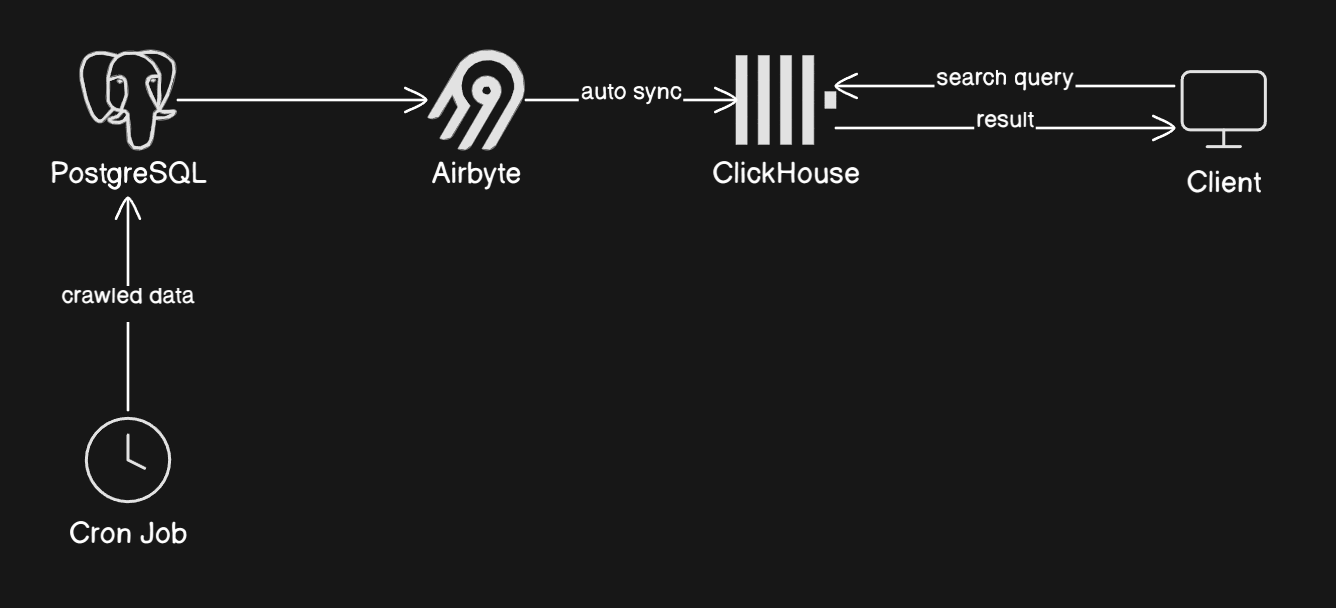
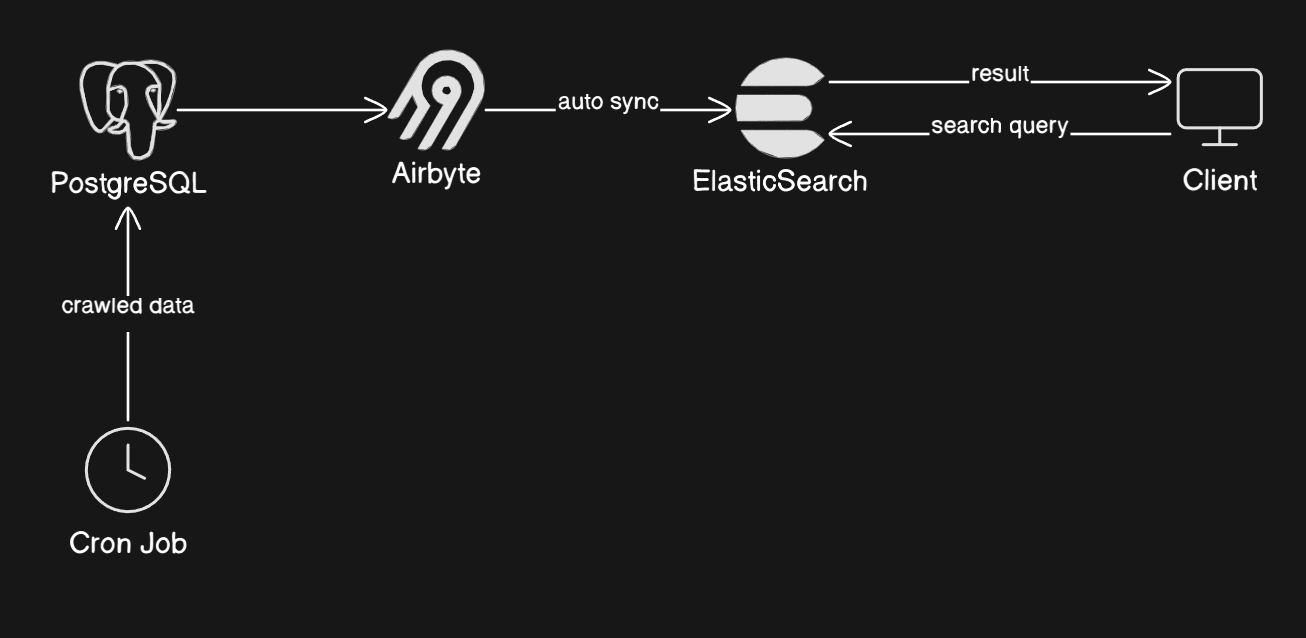
update

Changed region(s): [[0.0306, 0.0625, 0.9801, 0.5], [0.0306, 0.5312, 0.1531, 0.9062]]

diff --git a/index.html b/index.html
@@ -815,7 +815,7 @@
       <div class="decision-grid">
         <div class="decision-card">
           <h5>왜 Temporal?</h5>
-          <p>워크플로우 상태 추적, 자동 재시도, 타임아웃 관리가 선언적으로 가능. gRPC 기반으로 성능 우수.</p>
+          <p>워크플로우 상태 추적, 자동 재시도, 타임아웃 관리가 선언적으로 가능.</p>
         </div>
         <div class="decision-card">
           <h5>왜 Redis?</h5>
@@ -832,10 +832,10 @@
     <div class="project-section">
       <div class="section-sub-label">📊 성과</div>
       <div class="metric-row">
-        <div class="metric-box"><div class="metric-value">30s → 2s</div><div class="metric-desc">응답 대기 시간</div></div>
-        <div class="metric-box"><div class="metric-value">5배</div><div class="metric-desc">동시 처리량 향상</div></div>
-        <div class="metric-box"><div class="metric-value">15% → 0.3%</div><div class="metric-desc">파이프라인 실패율</div></div>
-        <div class="metric-box"><div class="metric-value">0건</div><div class="metric-desc">Heap Corruption</div></div>
+        <div class="metric-box"><div class="metric-value">크래시 → 0</div><div class="metric-desc">100명 동시 테스트 SIGABRT 해결</div></div>
+        <div class="metric-box"><div class="metric-value">즉시 응답</div><div class="metric-desc">Redis Key 반환으로 타임아웃 제거</div></div>
+        <div class="metric-box"><div class="metric-value">N개 병렬</div><div class="metric-desc">Worker replicas 수평 확장</div></div>
+        <div class="metric-box"><div class="metric-value">자동 복구</div><div class="metric-desc">Activity 단위 재시도</div></div>
       </div>
     </div>
 
@@ -857,7 +857,7 @@
         </div>
       </div>
     </div>
-  </div>1
+  </div>
 
   <!-- =============================== -->
   <!-- Project 2: CDC                  -->
@@ -1060,11 +1060,11 @@
       <span class="project-headline">데이터 자동화 · 검색 최적화</span>
     </div>
     <h3>웹툰 검색 파이프라인 구축</h3>
-    <div class="project-subtitle" style="color:var(--green)">수동 크롤링 + PostgreSQL → Airbyte + ClickHouse 전환</div>
+    <div class="project-subtitle" style="color:var(--green)">수동 크롤링 + PostgreSQL → Airbyte + Elasticsearch 전환</div>
     <div class="project-meta">
       <span>기간: 2025</span> | <span>기여도: 100%</span>
       <span class="badge">Airbyte</span>
-      <span class="badge">ClickHouse</span>
+      <span class="badge">Elasticsearch</span>
       <span class="badge">PostgreSQL</span>
     </div>
 
@@ -1073,7 +1073,7 @@
       <div class="context-grid">
         <div class="context-card">
           <h5>수동 적재</h5>
-          <p>1분 주기 크론 크롤링 후 수동으로 DB 적재</p>
+          <p>1분 주기 크론 크롤링 후 데이터 비교 및 DB 적재</p>
         </div>
         <div class="context-card">
           <h5>검색 속도 저하</h5>
@@ -1114,8 +1114,8 @@
           <p>커넥터 기반 EL(Extract/Load) 자동화, 스케줄 Sync로 정합성 보장. Airflow 대비 설정이 간단.</p>
         </div>
         <div class="decision-card">
-          <h5>왜 ClickHouse?</h5>
-          <p>웹툰 검색은 집계/필터 위주의 OLAP 패턴. PostgreSQL 행 기반 대비 컬럼형 스캔이 압도적으로 빠름.</p>
+          <h5>왜 Elasticsearch?</h5>
+          <p>웹툰 검색은 집계/필터 위주의 OLAP 패턴. PostgreSQL 행 기반 대비 Elasticsearch의 검색 성능이 압도적으로 빠름.</p>
         </div>
       </div>
     </div>
@@ -1136,13 +1136,13 @@
           <h5>✅ 배운 점</h5>
           <ul>
             <li>EL(Extract/Load)과 ETL 파이프라인의 차이와 적합한 사용 시나리오 이해</li>
-            <li>OLTP(PostgreSQL) vs OLAP(ClickHouse)의 쿼리 패턴별 성능 차이 체감</li>
+            <li>OLTP(PostgreSQL) vs OLAP(Elasticsearch)의 쿼리 패턴별 성능 차이 체감</li>
           </ul>
         </div>
         <div class="lesson-card bad">
           <h5>💭 아쉬운 점</h5>
           <ul>
-            <li>ClickHouse의 UPDATE/DELETE 제약으로 데이터 수정 시 재적재 필요</li>
+            <li>Elasticsearch의 UPDATE/DELETE 제약으로 데이터 수정 시 재적재 필요</li>
           </ul>
         </div>
       </div>
